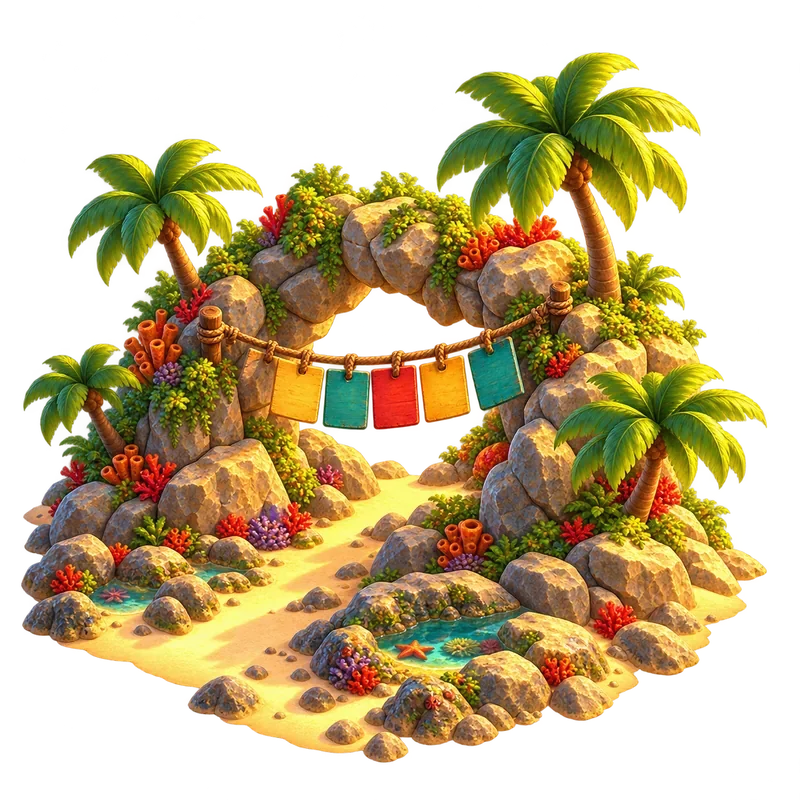
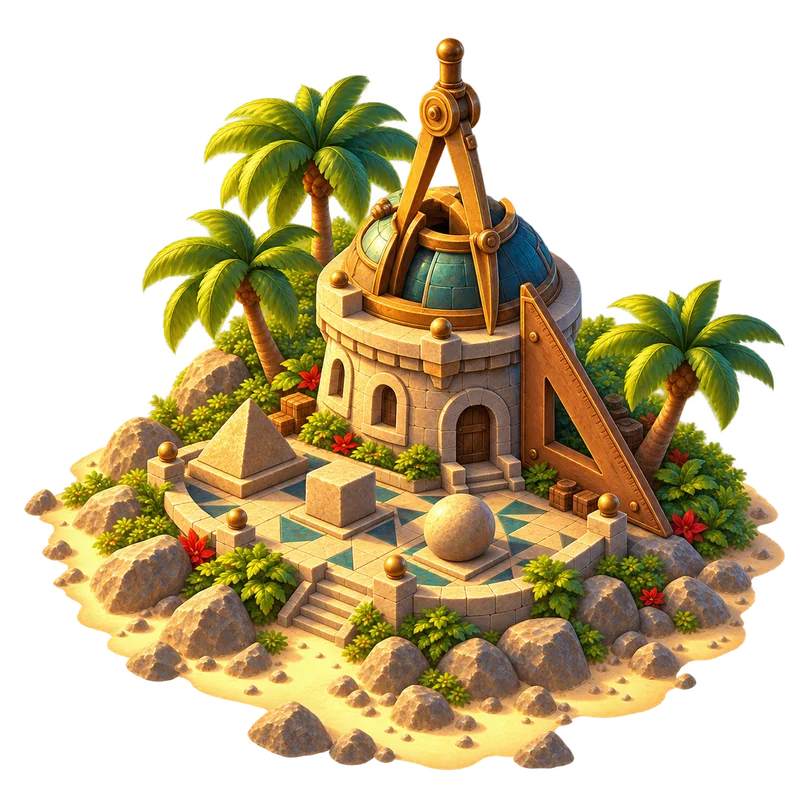
2.4 : images du lot 8, Île des Formes
- Île, décor et Colosse des Formes définitifs (remplacent les images
  provisoires)
- Emoji des réponses légèrement ombrés : les nuages et la neige restent
  visibles sur le fond crème
- Bible des images : lots 8 et 9 reçus

Claude-Session: https://claude.ai/code/session_017wDvHhCCs6huY2VzGwYmeZ

diff --git a/design/bible-des-assets.html b/design/bible-des-assets.html
@@ -104,7 +104,7 @@ code{background:rgba(255,255,255,.08);padding:1px 6px;border-radius:6px;color:va
     <h2>Mode d’emploi</h2>
     <div class="steps">
       <div class="step"><span class="n">1</span><p><b>Une seule conversation</b> dans ton générateur. Colle le bloc de style, puis joins les références indiquées sur chaque fiche (« Joindre : … ») : <code>hero-canons</code> pour les décors, <code>boss-kraken</code> et <code>crew-perroquet</code> pour les personnages, <code>ship-player-3</code> pour les navires.</p></div>
-      <div class="step"><span class="n">2</span><p><b>Lots 1 à 5, 7 et 9 reçus et intégrés.</b> Le lot 7 (30 images) est dans la version 2.0 : la garde-robe du capitaine (7a), le navire (7b) et le port d’attache (7c). Le lot 9 (8 images) est dans la version 2.4 : la côte du port, la pierre précieuse, l’Île des Perroquets et l’Île des Curiosités. <b>À générer maintenant : le lot 8</b> (3 images, Île des Formes), l’île de géométrie ouverte du CE1 au CM2, qui tourne encore avec des images provisoires. Joins les références indiquées sur chaque fiche, en particulier les images du lot 9, pour garder exactement le même style. <b>Reste aussi le lot 6</b> (histoire et journal, 8 images). Chaque fiche indique quelles images joindre comme références ; une référence pas encore générée est à joindre dès qu’elle existe.</p></div>
+      <div class="step"><span class="n">2</span><p><b>Lots 1 à 5 et 7 à 9 reçus et intégrés.</b> Le lot 7 (30 images) est dans la version 2.0 : la garde-robe du capitaine (7a), le navire (7b) et le port d’attache (7c). Le lot 9 (8 images) est dans la version 2.4 : la côte du port, la pierre précieuse, l’Île des Perroquets et l’Île des Curiosités. Le lot 8 (3 images) est aussi dans la version 2.4 : l’Île des Formes, son décor et le Colosse des Formes. <b>Reste aussi le lot 6</b> (histoire et journal, 8 images). Chaque fiche indique quelles images joindre comme références ; une référence pas encore générée est à joindre dès qu’elle existe.</p></div>
       <div class="step"><span class="n">3</span><p><b>Copie le prompt de chaque fiche</b> : il contient déjà le style, le sujet, le fond et le format. Commence par les fiches <b>Indispensable</b>.</p></div>
       <div class="step"><span class="n">4</span><p><b>Fond transparent</b> : demande un PNG transparent. Si l’outil ne sait pas, il doit mettre un fond magenta uni <code>#FF00FF</code>, je le découpe moi-même.</p></div>
       <div class="step"><span class="n">5</span><p><b>Nomme chaque fichier</b> avec son identifiant (<code>isle-canons.png</code>), en plus grande taille possible. Je redimensionne et je compresse.</p></div>
@@ -394,11 +394,11 @@ const A = [
 ];
 
 const PRIO = { 1: 'Indispensable', 2: 'Important', 3: 'Plus tard' };
-const RECU = new Set(['capt-body-a','capt-body-b','capt-body-c','capt-body-d','hat-tricorne','hat-bandana','hat-bicorne','hat-plume','hat-couronne','acc-patch','acc-spyglass','acc-compass','acc-monkey','wpn-wood','wpn-cutlass','wpn-gold','fig-aigle','fig-licorne','fig-kraken','cannon-silver','anchor-gold','rowboat','port-base','bld-jardin','bld-drapeau','bld-marche','bld-taverne','bld-phare','bld-chantier','bld-statue','app-icon','tex-parchment','tex-wood','tex-sea','bg-ocean-a','bg-ocean-b','fx-fog-a','lagoon-round','lagoon-oval','lagoon-rocks','isle-canons','isle-stade','isle-mine','isle-jungle','isle-marche','isle-cuisine','bg-sea-golden','fg-waves','hero-canons','ship-player-3','ship-player-top','ship-requin','capt-a','crew-perroquet','crew-tortue','crew-calmar','crew-crabe','boss-kraken','chest-closed','chest-open','coin-doublon','poster-blank','fx-explosion','fx-smoke','fx-splash','hero-stade','hero-mine','hero-jungle','hero-marche','hero-cuisine','boss-crabe','boss-golem','boss-serpent','boss-marchand','boss-chef','ship-player-1','ship-player-2','ship-requin-hit','crew-poisson','crew-phoque','crew-grenouille','crew-pieuvre','crew-requin','crew-croco','bg-port-dusk','isle-lecture','hero-lecture','boss-lecture','isle-conjug','hero-conjug','boss-conjug','isle-gram','hero-gram','boss-gram','isle-accords','hero-accords','boss-accords','isle-vocab','hero-vocab','boss-vocab','isle-horloge','hero-horloge','boss-horloge','guide-capitaine','foot-ball','foot-goal','block-1000','block-100','block-10','block-1','coin-copper','coin-gold','coin-bimetal','bill-green','bill-red','bill-blue','food-pizza','food-cake','guide-perroquet-bravo','guide-perroquet-hmm','jungle-frame','capt-b','capt-c','capt-d','capt-victory','fig-dragon','fig-sirene','cannon-gold','flag-blank','ship-meduse','bg-storm','bg-title','isle-port','isle-kraken','fx-fog-b','deco-compass','coin-pile','wax-seal','cannonball','fx-sparkle','fx-coins','port-coast','gem','isle-anglais','hero-anglais','boss-anglais','isle-culture','hero-culture','boss-culture']);
+const RECU = new Set(['capt-body-a','capt-body-b','capt-body-c','capt-body-d','hat-tricorne','hat-bandana','hat-bicorne','hat-plume','hat-couronne','acc-patch','acc-spyglass','acc-compass','acc-monkey','wpn-wood','wpn-cutlass','wpn-gold','fig-aigle','fig-licorne','fig-kraken','cannon-silver','anchor-gold','rowboat','port-base','bld-jardin','bld-drapeau','bld-marche','bld-taverne','bld-phare','bld-chantier','bld-statue','app-icon','tex-parchment','tex-wood','tex-sea','bg-ocean-a','bg-ocean-b','fx-fog-a','lagoon-round','lagoon-oval','lagoon-rocks','isle-canons','isle-stade','isle-mine','isle-jungle','isle-marche','isle-cuisine','bg-sea-golden','fg-waves','hero-canons','ship-player-3','ship-player-top','ship-requin','capt-a','crew-perroquet','crew-tortue','crew-calmar','crew-crabe','boss-kraken','chest-closed','chest-open','coin-doublon','poster-blank','fx-explosion','fx-smoke','fx-splash','hero-stade','hero-mine','hero-jungle','hero-marche','hero-cuisine','boss-crabe','boss-golem','boss-serpent','boss-marchand','boss-chef','ship-player-1','ship-player-2','ship-requin-hit','crew-poisson','crew-phoque','crew-grenouille','crew-pieuvre','crew-requin','crew-croco','bg-port-dusk','isle-lecture','hero-lecture','boss-lecture','isle-conjug','hero-conjug','boss-conjug','isle-gram','hero-gram','boss-gram','isle-accords','hero-accords','boss-accords','isle-vocab','hero-vocab','boss-vocab','isle-horloge','hero-horloge','boss-horloge','guide-capitaine','foot-ball','foot-goal','block-1000','block-100','block-10','block-1','coin-copper','coin-gold','coin-bimetal','bill-green','bill-red','bill-blue','food-pizza','food-cake','guide-perroquet-bravo','guide-perroquet-hmm','jungle-frame','capt-b','capt-c','capt-d','capt-victory','fig-dragon','fig-sirene','cannon-gold','flag-blank','ship-meduse','bg-storm','bg-title','isle-port','isle-kraken','fx-fog-b','deco-compass','coin-pile','wax-seal','cannonball','fx-sparkle','fx-coins','port-coast','gem','isle-anglais','hero-anglais','boss-anglais','isle-culture','hero-culture','boss-culture','isle-formes','hero-formes','boss-formes']);
 const LOTS = {
   11: { t: 'Lot 9 · version 2.4 · reçu', d: 'Reçu et intégré dans la version 2.4. Pour mémoire : d’abord les deux fiches Indispensable : la côte du port, qui ferme le bas de la carte (on ne descend plus sous le port), et la pierre précieuse, qui remplace mon dessin provisoire. Puis les deux nouvelles îles de la Mer des Lettres, anglais et culture générale : l’île, son décor et son boss. Leurs noms sont provisoires : dis-moi si tu en préfères d’autres avant de générer.',
        ids: ['port-coast', 'gem', 'isle-anglais', 'hero-anglais', 'boss-anglais', 'isle-culture', 'hero-culture', 'boss-culture'] },
-  10: { t: 'Lot 8 · Île des Formes · à générer maintenant', d: 'L’île de géométrie, ouverte du CE1 au CM2 depuis la version 2.4 : l’île sur la carte, son décor et son boss, le Colosse des Formes. Elle est déjà jouable avec des images provisoires : il suffit de remplacer ces trois fichiers. Joins comme références les images du lot 9 indiquées sur chaque fiche (Île des Curiosités, Sphinx, Capitaine Ara) pour garder le même style. Trois PNG, comme pour le lot 9 : l’île et le boss sur fond transparent, le décor en plein cadre.',
+  10: { t: 'Lot 8 · Île des Formes · reçu', d: 'Reçu et intégré dans la version 2.4. Pour mémoire : L’île de géométrie, ouverte du CE1 au CM2 depuis la version 2.4 : l’île sur la carte, son décor et son boss, le Colosse des Formes. Elle est déjà jouable avec des images provisoires : il suffit de remplacer ces trois fichiers. Joins comme références les images du lot 9 indiquées sur chaque fiche (Île des Curiosités, Sphinx, Capitaine Ara) pour garder le même style. Trois PNG, comme pour le lot 9 : l’île et le boss sur fond transparent, le décor en plein cadre.',
        ids: ['isle-formes', 'hero-formes', 'boss-formes'] },
   7: { t: 'Lot 7a · garde-robe du capitaine · reçu', d: 'Le capitaine en pied et sans chapeau (4 bases, même pose), puis les chapeaux, accessoires et sabres à acheter. Commence par capt-body-a : toutes les autres fiches la prennent comme référence.',
        ids: ['capt-body-a', 'capt-body-b', 'capt-body-c', 'capt-body-d', 'hat-tricorne', 'hat-bandana', 'hat-bicorne', 'hat-plume', 'hat-couronne', 'acc-patch', 'acc-spyglass', 'acc-compass', 'acc-monkey', 'wpn-wood', 'wpn-cutlass', 'wpn-gold'] },

diff --git a/index.html b/index.html
@@ -265,7 +265,7 @@ img{max-width:100%;-webkit-user-drag:none;user-select:none;pointer-events:none}
 .enplay svg{width:30px;height:30px}.prompt.enq .enplay{display:flex;width:max-content}
 .enline{font:700 clamp(19px,5.4vw,24px)/1.3 var(--f-u);color:var(--ink);text-align:center;margin:6px 4px 0}
 .enbig .emo{font-size:72px}.enbig{text-align:center;line-height:1.1}
-.emo{font-size:40px;line-height:1;font-family:'Apple Color Emoji','Segoe UI Emoji','Noto Color Emoji',sans-serif}.emo.sm{font-size:28px;letter-spacing:4px}
+.emo{font-size:40px;line-height:1;font-family:'Apple Color Emoji','Segoe UI Emoji','Noto Color Emoji',sans-serif;filter:drop-shadow(0 1px 1.5px rgba(42,28,18,.45))} /* les emoji clairs (nuage, neige) restent visibles sur le crème */.emo.sm{font-size:28px;letter-spacing:4px}
 .sw{display:inline-block;width:44px;height:44px;border-radius:50%;border:3px solid #2a1c12;vertical-align:middle;box-shadow:inset 0 -4px 0 rgba(0,0,0,.15)}
 .ennum{font:800 30px var(--f-u)}
 .gfig .gship{fill:var(--wax);stroke:#5e170f;stroke-width:1.5;stroke-linejoin:round}
@@ -5157,7 +5157,7 @@ function nextQ() {
 }
 // Recadrage horizontal des décors d'île : dans un écran en hauteur, on ne voit qu'environ la moitié de l'image.
 // Ces valeurs gardent le sujet (fort, forge, grotte…) dans le cadre plutôt que le centre de l'image.
-const HERO_X = { culture: 58, anglais: 75, formes: 50, accords: 55, canons: 75, conjug: 72, cuisine: 75, gram: 65, horloge: 78, jungle: 75, lecture: 75, marche: 75, mine: 75, stade: 70, vocab: 70 };
+const HERO_X = { culture: 58, anglais: 75, formes: 62, accords: 55, canons: 75, conjug: 72, cuisine: 75, gram: 65, horloge: 78, jungle: 75, lecture: 75, marche: 75, mine: 75, stade: 70, vocab: 70 };
 function sceneHTML() {
   const { i, boss } = R;
   if (i.v) return `<div class="g-scene" id="scene"><img class="bg hero-bg" src="${IMG(i.hero)}" alt="">${i.id === 'mix' ? shipArt('ship me sail', 'role="img" aria-label="Ton navire"') : `<img class="guidefig" src="${IMG('guide-capitaine')}" alt="Le capitaine Barbe-Grise">`}<div class="waves"></div>${powersHTML()}</div>`;

diff --git a/src/app.html b/src/app.html
@@ -249,7 +249,7 @@ img{max-width:100%;-webkit-user-drag:none;user-select:none;pointer-events:none}
 .enplay svg{width:30px;height:30px}.prompt.enq .enplay{display:flex;width:max-content}
 .enline{font:700 clamp(19px,5.4vw,24px)/1.3 var(--f-u);color:var(--ink);text-align:center;margin:6px 4px 0}
 .enbig .emo{font-size:72px}.enbig{text-align:center;line-height:1.1}
-.emo{font-size:40px;line-height:1;font-family:'Apple Color Emoji','Segoe UI Emoji','Noto Color Emoji',sans-serif}.emo.sm{font-size:28px;letter-spacing:4px}
+.emo{font-size:40px;line-height:1;font-family:'Apple Color Emoji','Segoe UI Emoji','Noto Color Emoji',sans-serif;filter:drop-shadow(0 1px 1.5px rgba(42,28,18,.45))} /* les emoji clairs (nuage, neige) restent visibles sur le crème */.emo.sm{font-size:28px;letter-spacing:4px}
 .sw{display:inline-block;width:44px;height:44px;border-radius:50%;border:3px solid #2a1c12;vertical-align:middle;box-shadow:inset 0 -4px 0 rgba(0,0,0,.15)}
 .ennum{font:800 30px var(--f-u)}
 .gfig .gship{fill:var(--wax);stroke:#5e170f;stroke-width:1.5;stroke-linejoin:round}
@@ -5141,7 +5141,7 @@ function nextQ() {
 }
 // Recadrage horizontal des décors d'île : dans un écran en hauteur, on ne voit qu'environ la moitié de l'image.
 // Ces valeurs gardent le sujet (fort, forge, grotte…) dans le cadre plutôt que le centre de l'image.
-const HERO_X = { culture: 58, anglais: 75, formes: 50, accords: 55, canons: 75, conjug: 72, cuisine: 75, gram: 65, horloge: 78, jungle: 75, lecture: 75, marche: 75, mine: 75, stade: 70, vocab: 70 };
+const HERO_X = { culture: 58, anglais: 75, formes: 62, accords: 55, canons: 75, conjug: 72, cuisine: 75, gram: 65, horloge: 78, jungle: 75, lecture: 75, marche: 75, mine: 75, stade: 70, vocab: 70 };
 function sceneHTML() {
   const { i, boss } = R;
   if (i.v) return `<div class="g-scene" id="scene"><img class="bg hero-bg" src="${IMG(i.hero)}" alt="">${i.id === 'mix' ? shipArt('ship me sail', 'role="img" aria-label="Ton navire"') : `<img class="guidefig" src="${IMG('guide-capitaine')}" alt="Le capitaine Barbe-Grise">`}<div class="waves"></div>${powersHTML()}</div>`;
